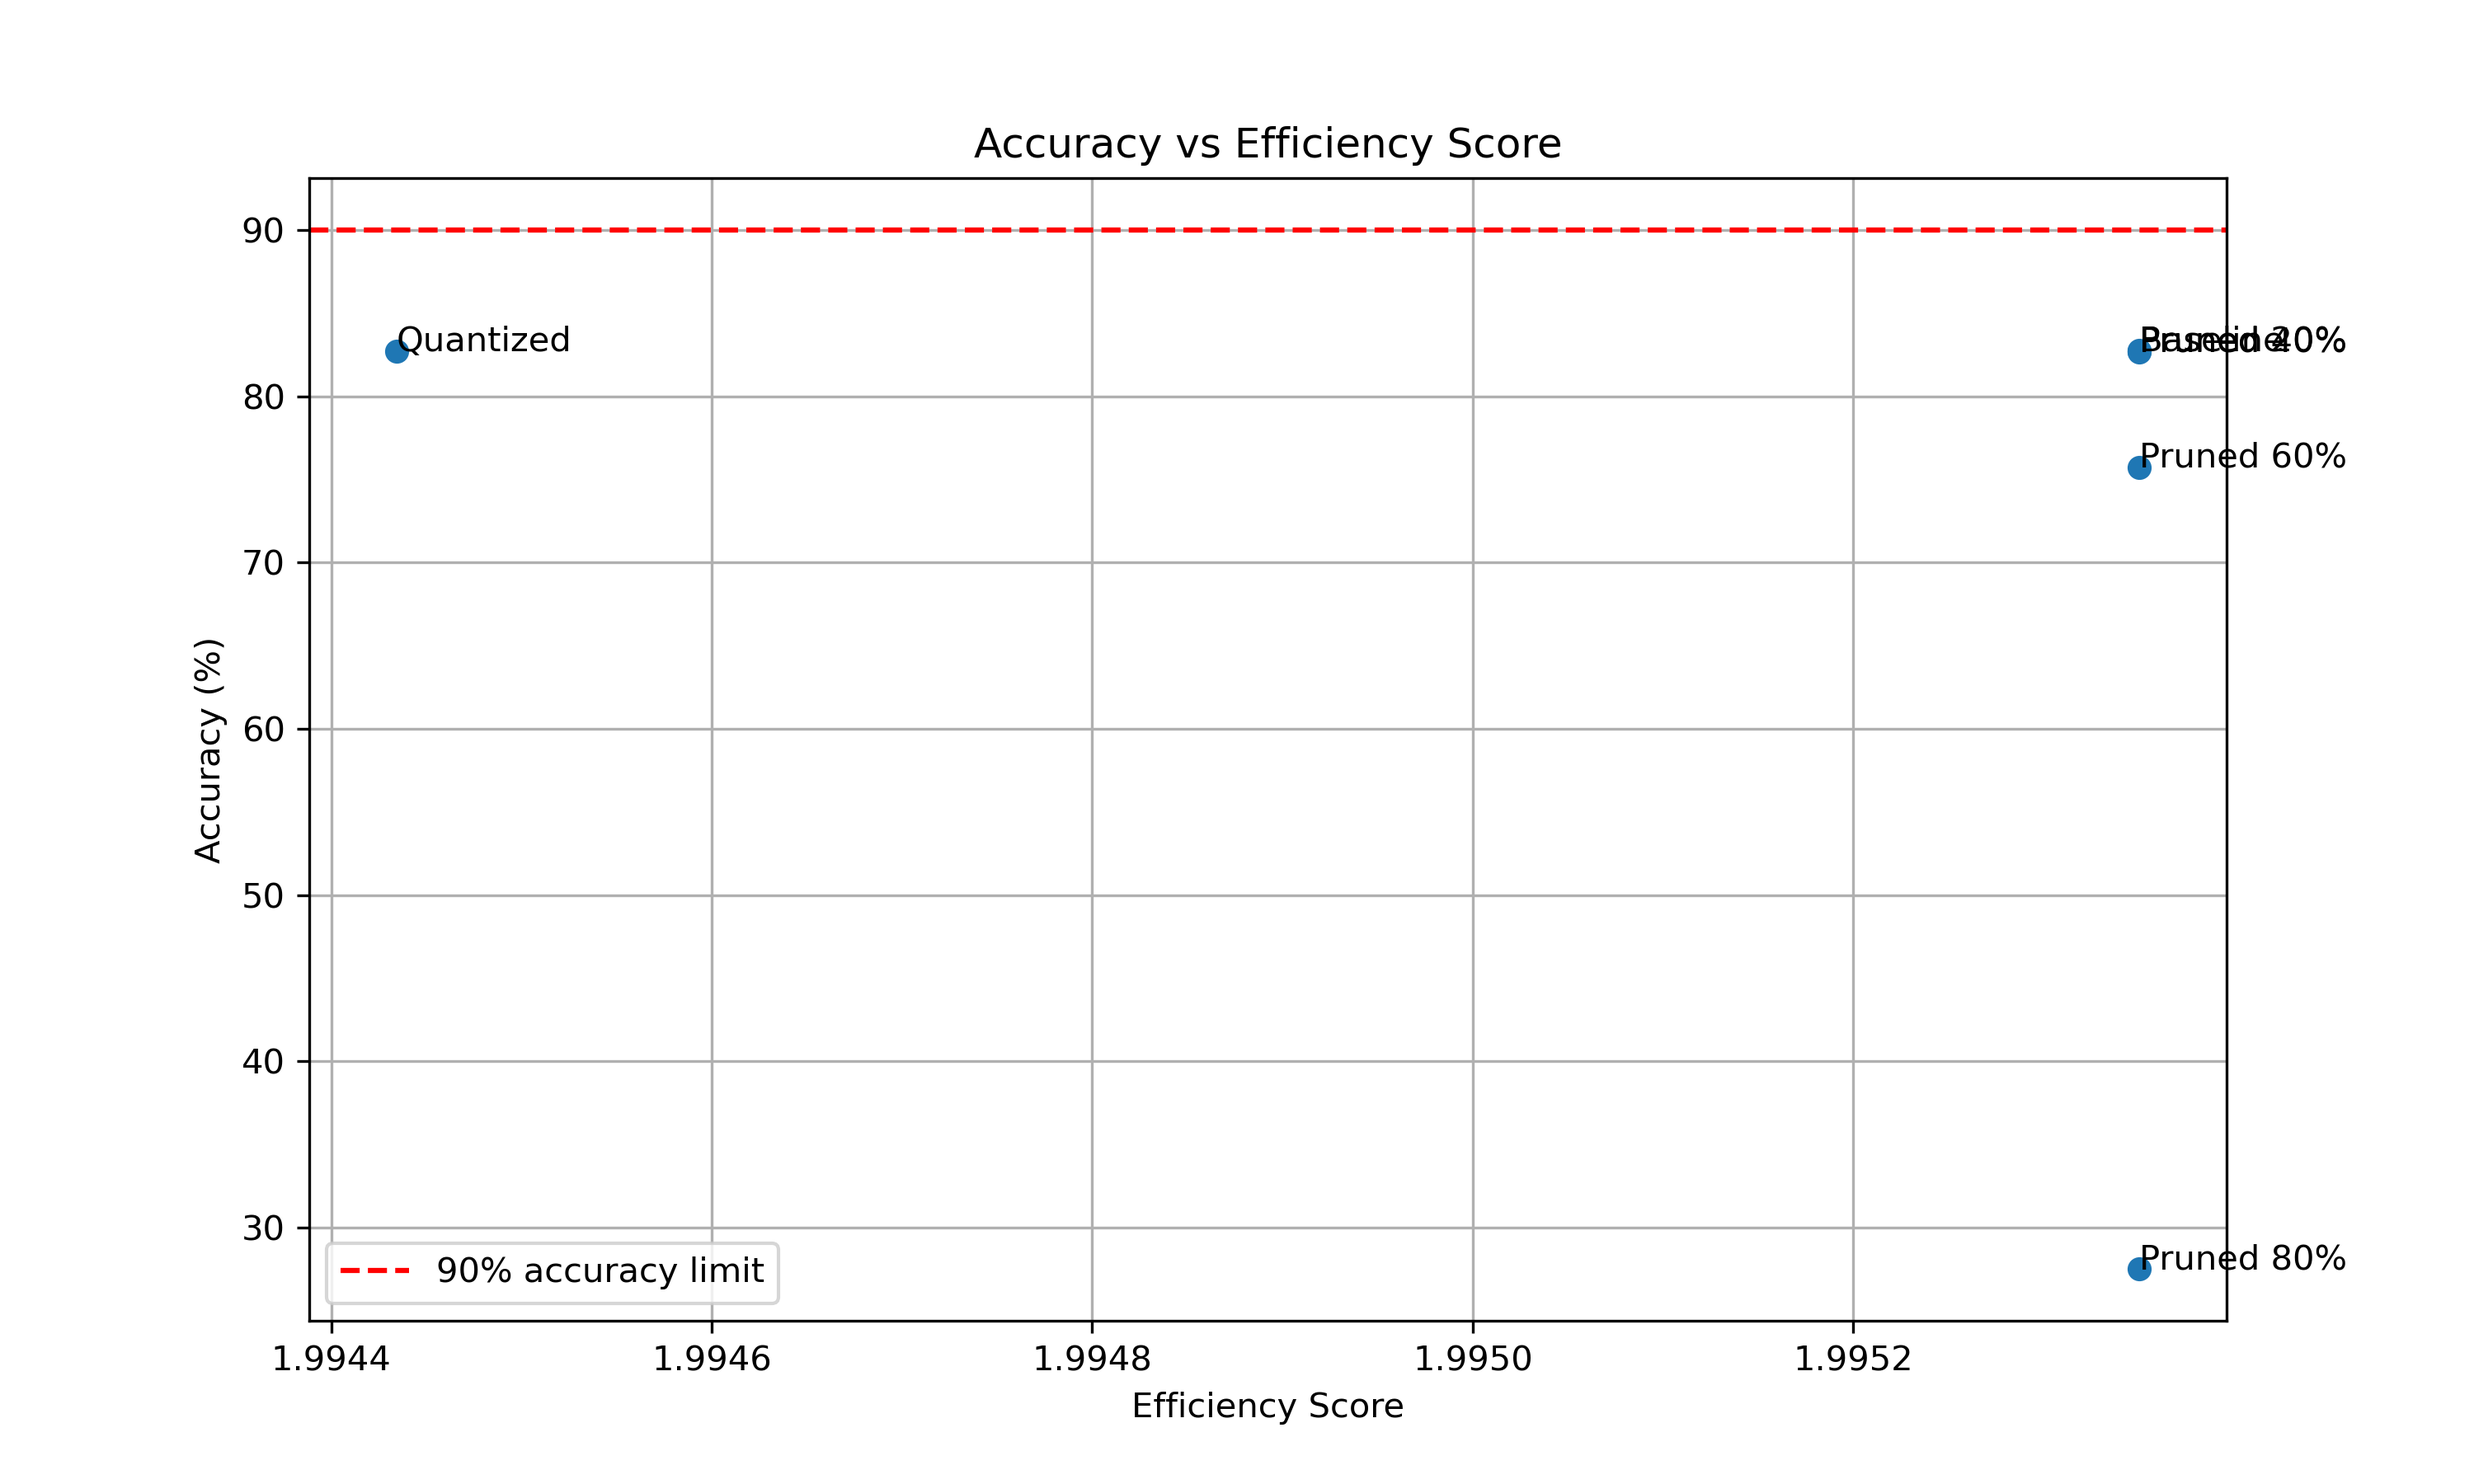
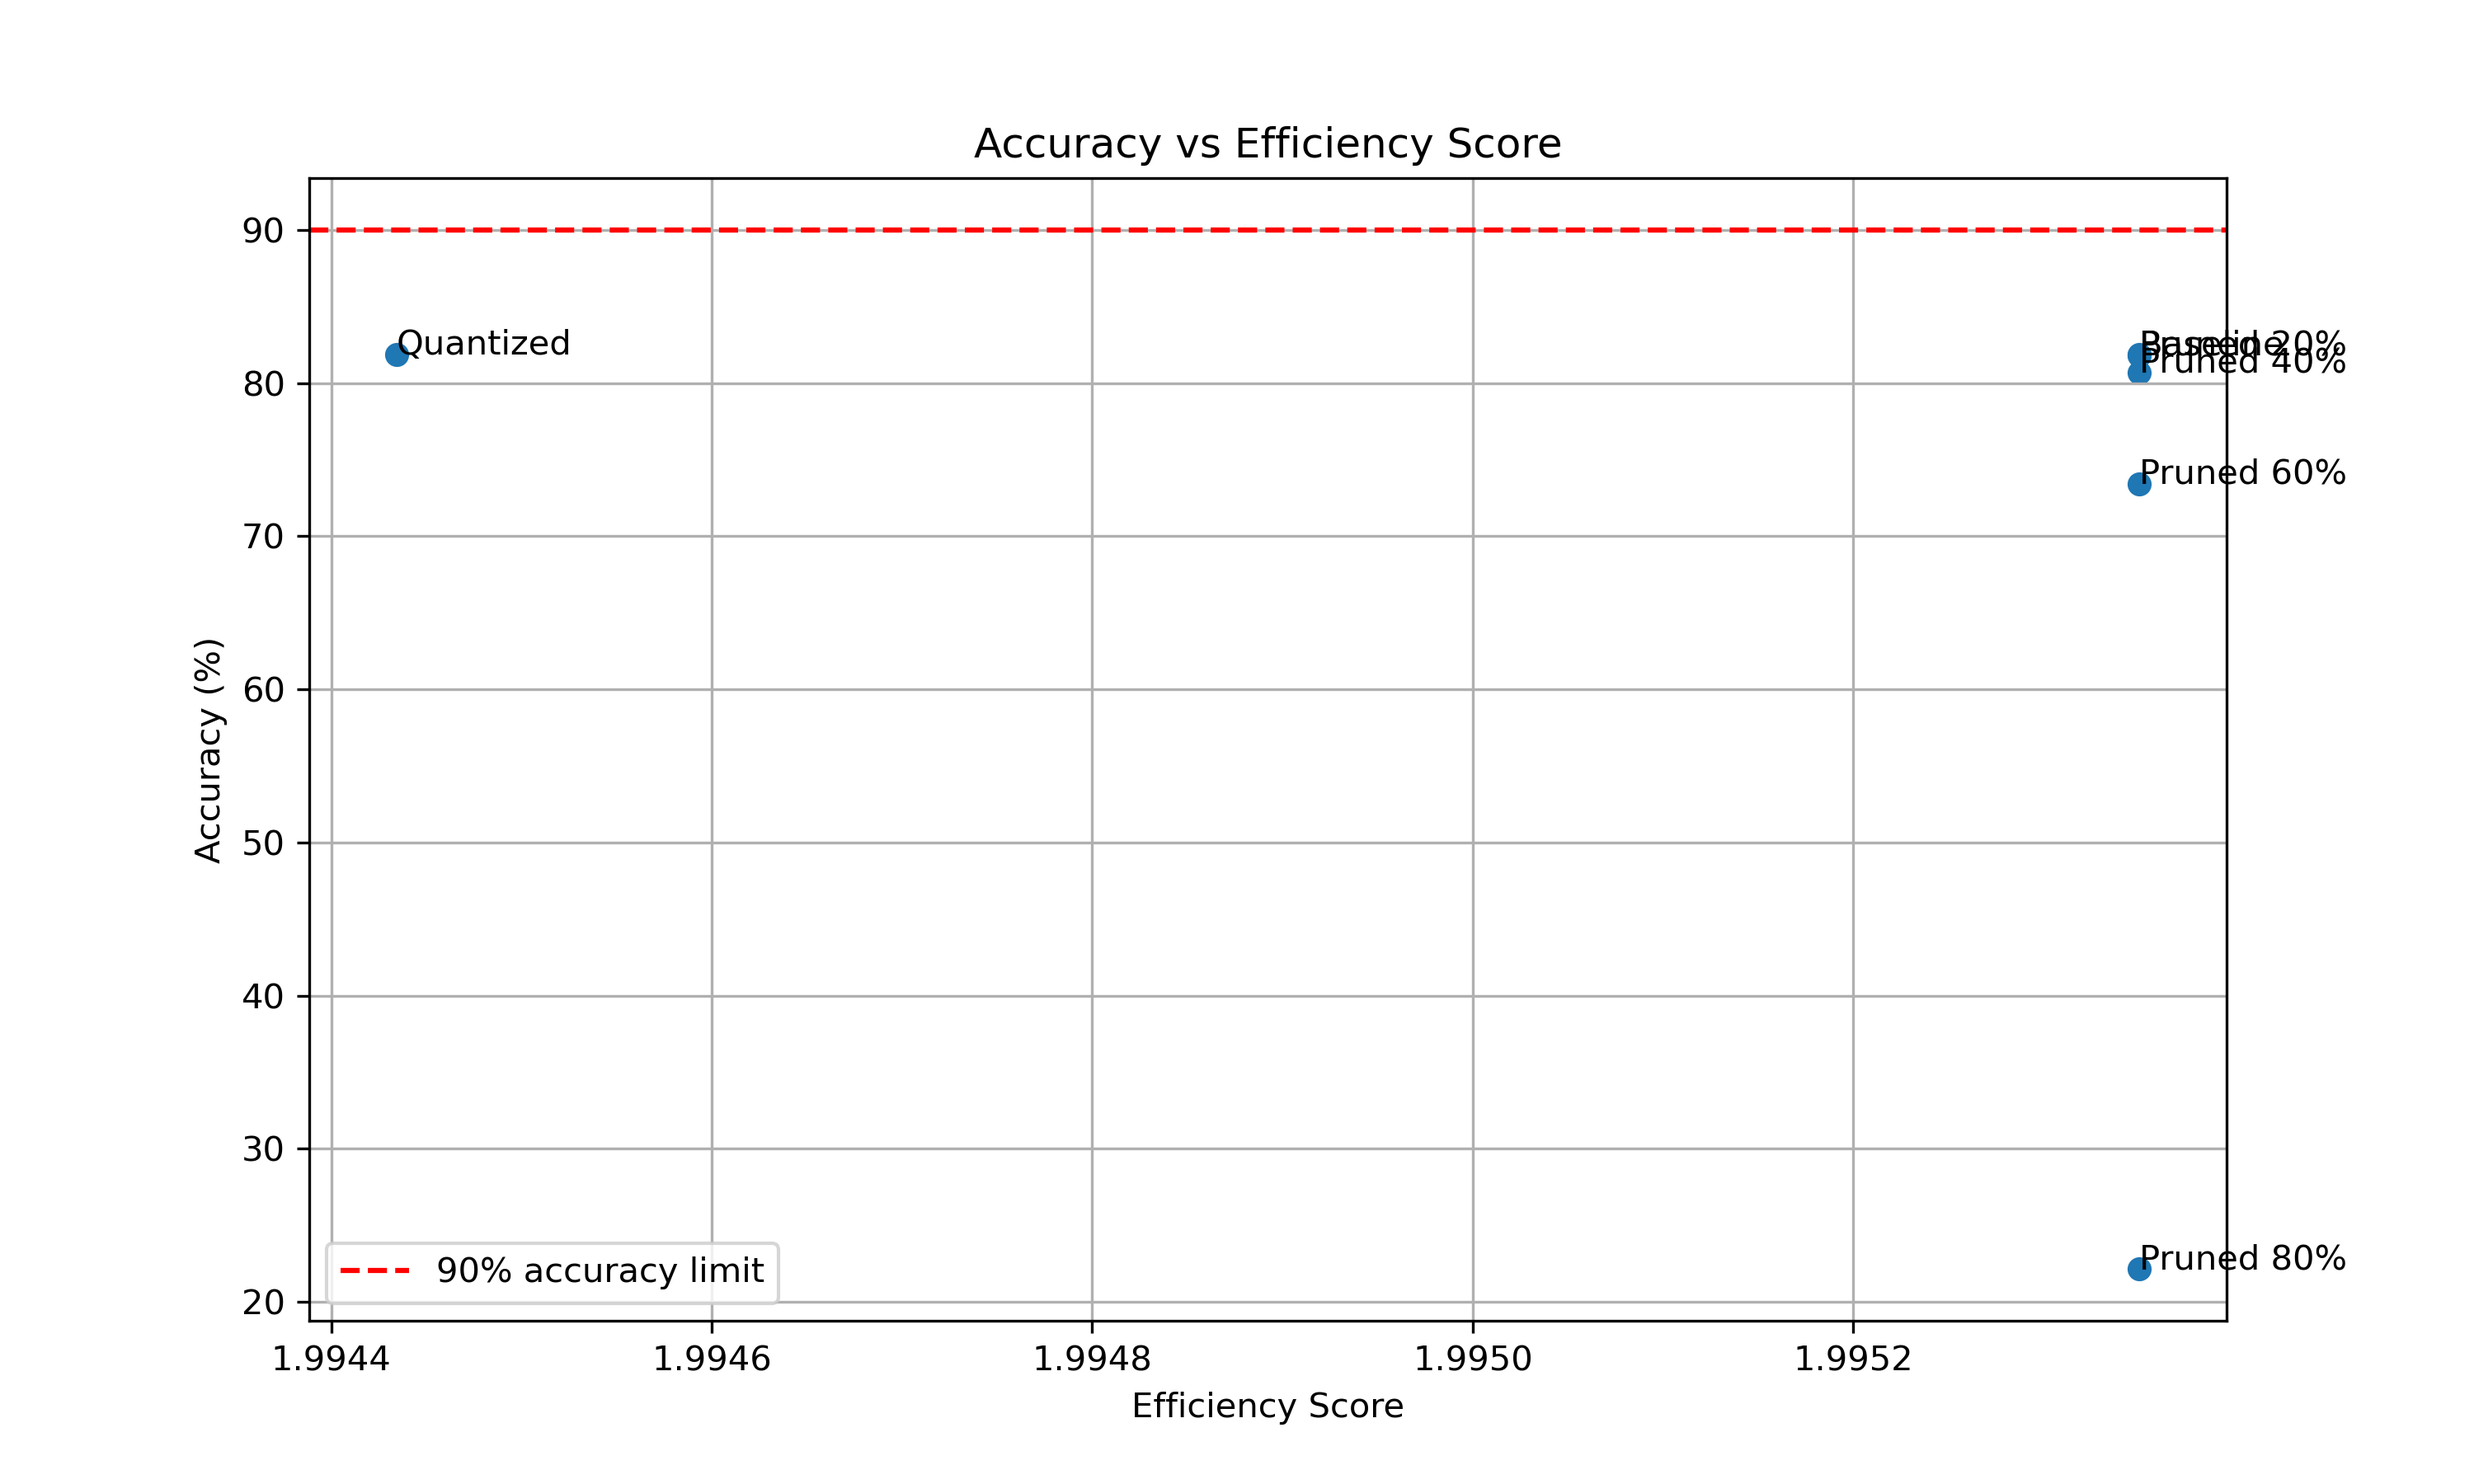
Graphics for 5 epochs update

diff --git a/lab4/main_2.py b/lab4/main_2.py
@@ -161,11 +161,15 @@ def compute_score(model, q_w=None, q_a=None):
 
 # ========== Training ==========
 
-def train(model, trainloader, testloader, optimizer, scheduler, device, epochs=10) :
+def train(model, trainloader, testloader, optimizer, scheduler, device, epochs=10):
     criterion = nn.CrossEntropyLoss()
+    train_losses = []
+    test_losses = []
+    test_accuracies = []
 
     for epoch in range(epochs):
         model.train()
+        running_loss = 0.0
         for inputs, labels in trainloader:
             inputs = inputs.to(device)
             labels = labels.to(device)
@@ -174,11 +178,20 @@ def train(model, trainloader, testloader, optimizer, scheduler, device, epochs=1
             loss = criterion(outputs, labels)
             loss.backward()
             optimizer.step()
+            running_loss += loss.item()
 
+        train_loss = running_loss / len(trainloader)
         test_loss, test_acc = evaluate(model, testloader, device)
         scheduler.step()
 
-        print(f"[Epoch {epoch+1}] Test Loss: {test_loss:.4f} | Test Acc: {test_acc:.2f}%")
+        train_losses.append(train_loss)
+        test_losses.append(test_loss)
+        test_accuracies.append(test_acc)
+
+        print(f"[Epoch {epoch+1}] Train Loss: {train_loss:.4f} | Test Loss: {test_loss:.4f} | Test Acc: {test_acc:.2f}%")
+
+    return train_losses, test_losses, test_accuracies
+
 
 # ========== Pruning ==========
 
@@ -205,9 +218,9 @@ if __name__ == "__main__":
     trainloader, testloader = load_dataset()
     optimizer = optim.Adam(net.parameters(), lr=0.001)
     scheduler = StepLR(optimizer, step_size=20, gamma=0.5)
-    epochs = 5
+    epochs = 20
 
-    train(net, trainloader, testloader, optimizer, scheduler, device, epochs=epochs)
+    train_losses, test_losses, test_accuracies = train(net, trainloader, testloader, optimizer, scheduler, device, epochs=epochs)
 
     # Baseline
     baseline_loss, baseline_acc = evaluate(net, testloader, device)
@@ -236,6 +249,30 @@ if __name__ == "__main__":
     scores = [arch['score'] for arch in architectures]
     accuracies = [arch['acc'] for arch in architectures]
     labels = [arch['name'] for arch in architectures]
+    
+    # === Courbe de la loss ===
+    plt.figure(figsize=(10, 6))
+    plt.plot(train_losses, label='Train Loss')
+    plt.plot(test_losses, label='Test Loss')
+    plt.xlabel('Epoch')
+    plt.ylabel('Loss')
+    plt.title('Loss Evolution')
+    plt.legend()
+    plt.grid()
+    plt.savefig("loss_evolution.png", dpi=300)
+    plt.show()
+
+    # === Courbe de l'accuracy ===
+    plt.figure(figsize=(10, 6))
+    plt.plot(test_accuracies, label='Test Accuracy (%)')
+    plt.xlabel('Epoch')
+    plt.ylabel('Accuracy (%)')
+    plt.title('Accuracy Evolution')
+    plt.grid()
+    plt.legend()
+    plt.savefig("accuracy_evolution.png", dpi=300)
+    plt.show()
+
 
     plt.figure(figsize=(10, 6))
     plt.scatter(scores, accuracies)
